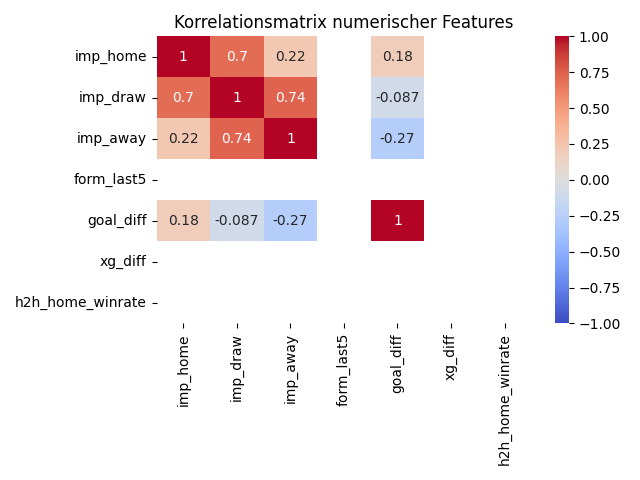
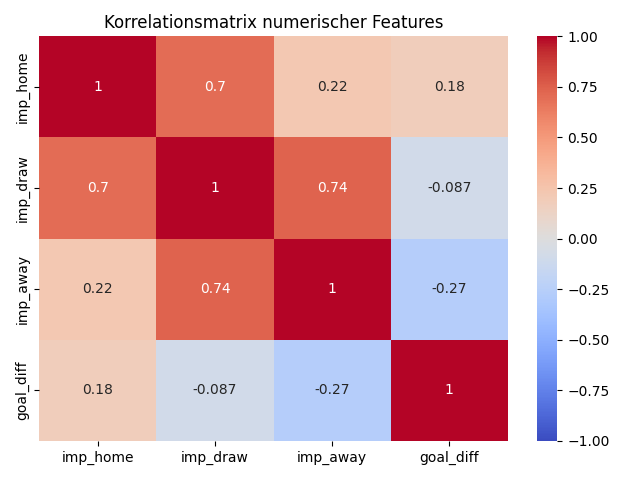
Korrelationsmatrix wird jetzt korrekt angezeigt

diff --git a/bundesliga-predictor/src/train.py b/bundesliga-predictor/src/train.py
@@ -50,13 +50,28 @@ df = df[df["result"].isin(["H", "D", "A"])].copy()
 print("Shape nach FE:", df.shape)
 
 # -------------------------------------------------- 2) Korrelation
-corr = df[features.NUM_FEATS].corr()
-Path("reports").mkdir(exist_ok=True)
+# -------------------------------------------------- 2) Korrelation prüfen
+corr_df = df[features.NUM_FEATS].copy()
+
+# Warnung ausgeben, falls Feature-Spalten konstant sind (z. B. nur 0)
+dropped_cols = corr_df.columns[corr_df.nunique() <= 1]
+if len(dropped_cols) > 0:
+    print("⚠  Folgende Features wurden nicht in die Korrelationsmatrix aufgenommen (nur konstante Werte):")
+    for col in dropped_cols:
+        print(f"   - {col}")
+
+# Nur valide Spalten behalten
+corr_df = corr_df.drop(columns=dropped_cols)
+
+# Korrelation berechnen und speichern
+corr = corr_df.corr()
 sns.heatmap(corr, annot=True, cmap="coolwarm", vmin=-1, vmax=1)
 plt.title("Korrelationsmatrix numerischer Features")
-plt.tight_layout(); plt.savefig("reports/correlation_matrix.png"); plt.close()
-print("Korrelationsmatrix → reports/correlation_matrix.png")
-
+plt.tight_layout()
+Path("reports").mkdir(exist_ok=True)
+plt.savefig("reports/correlation_matrix.png")
+plt.close()
+print("Korrelationsmatrix gespeichert → reports/correlation_matrix.png")
 # -------------------------------------------------- 3) Zeitlicher Train/Test-Split
 df = df.sort_values("date")
 cut = int(len(df)*0.8)
